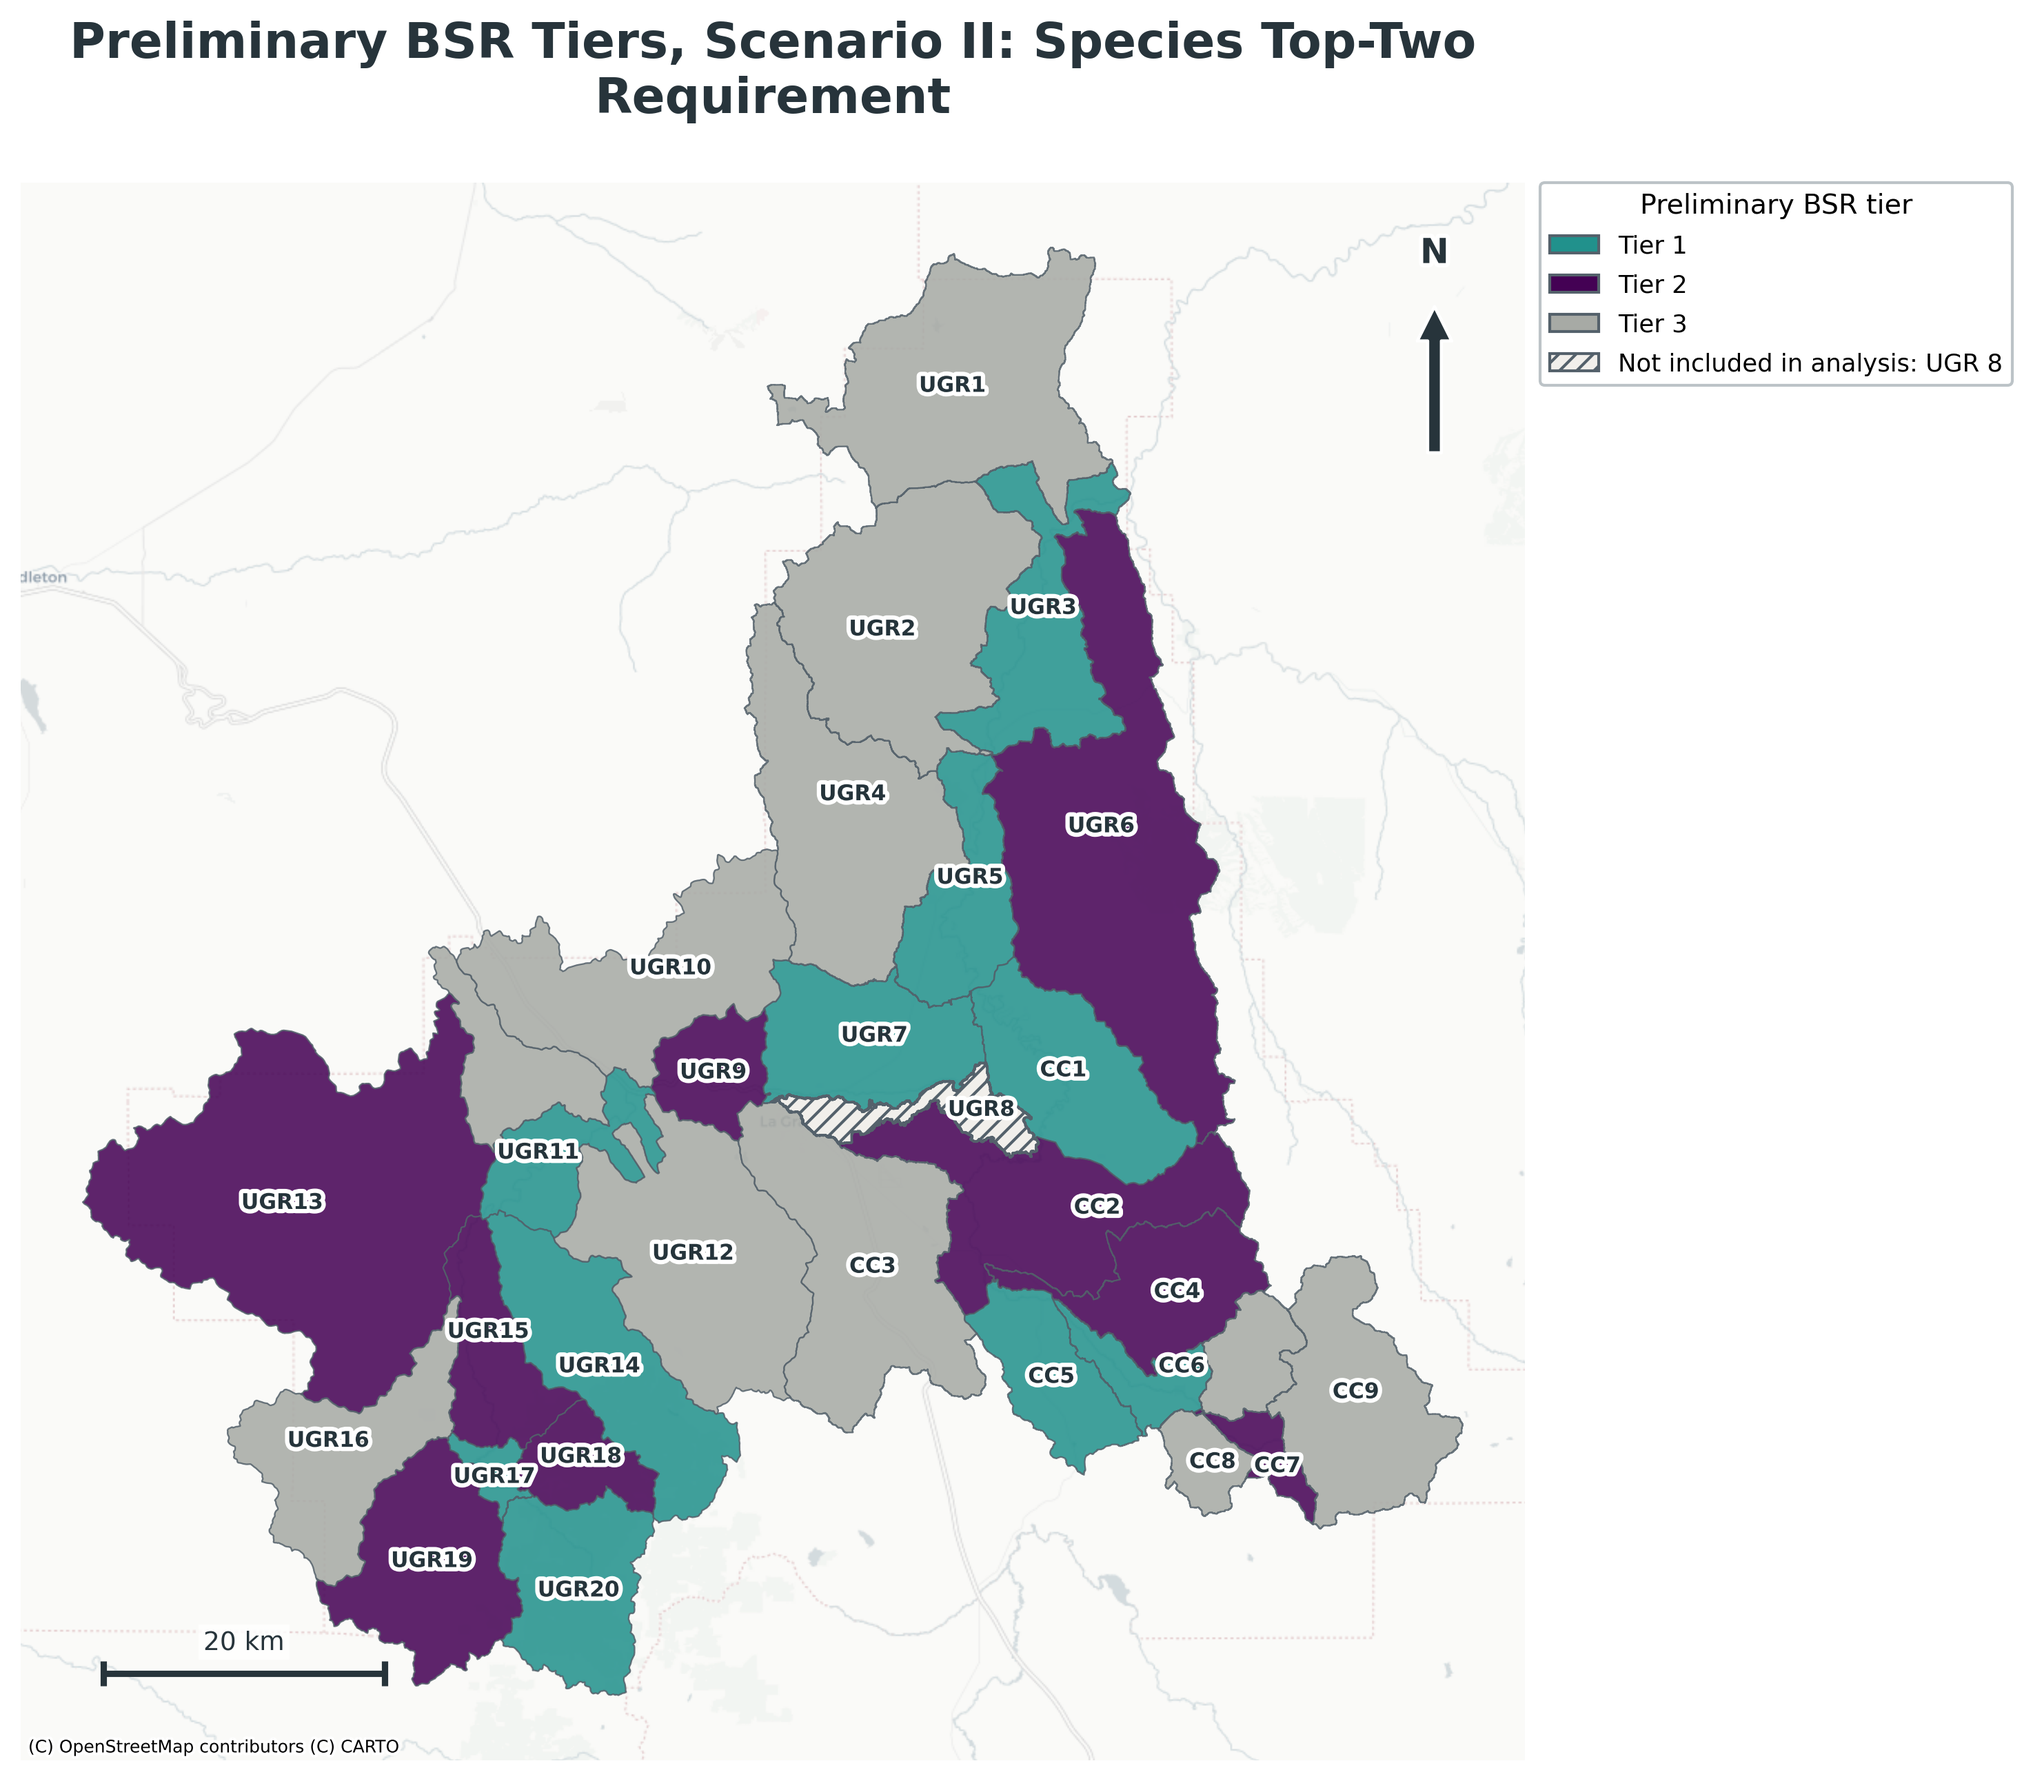
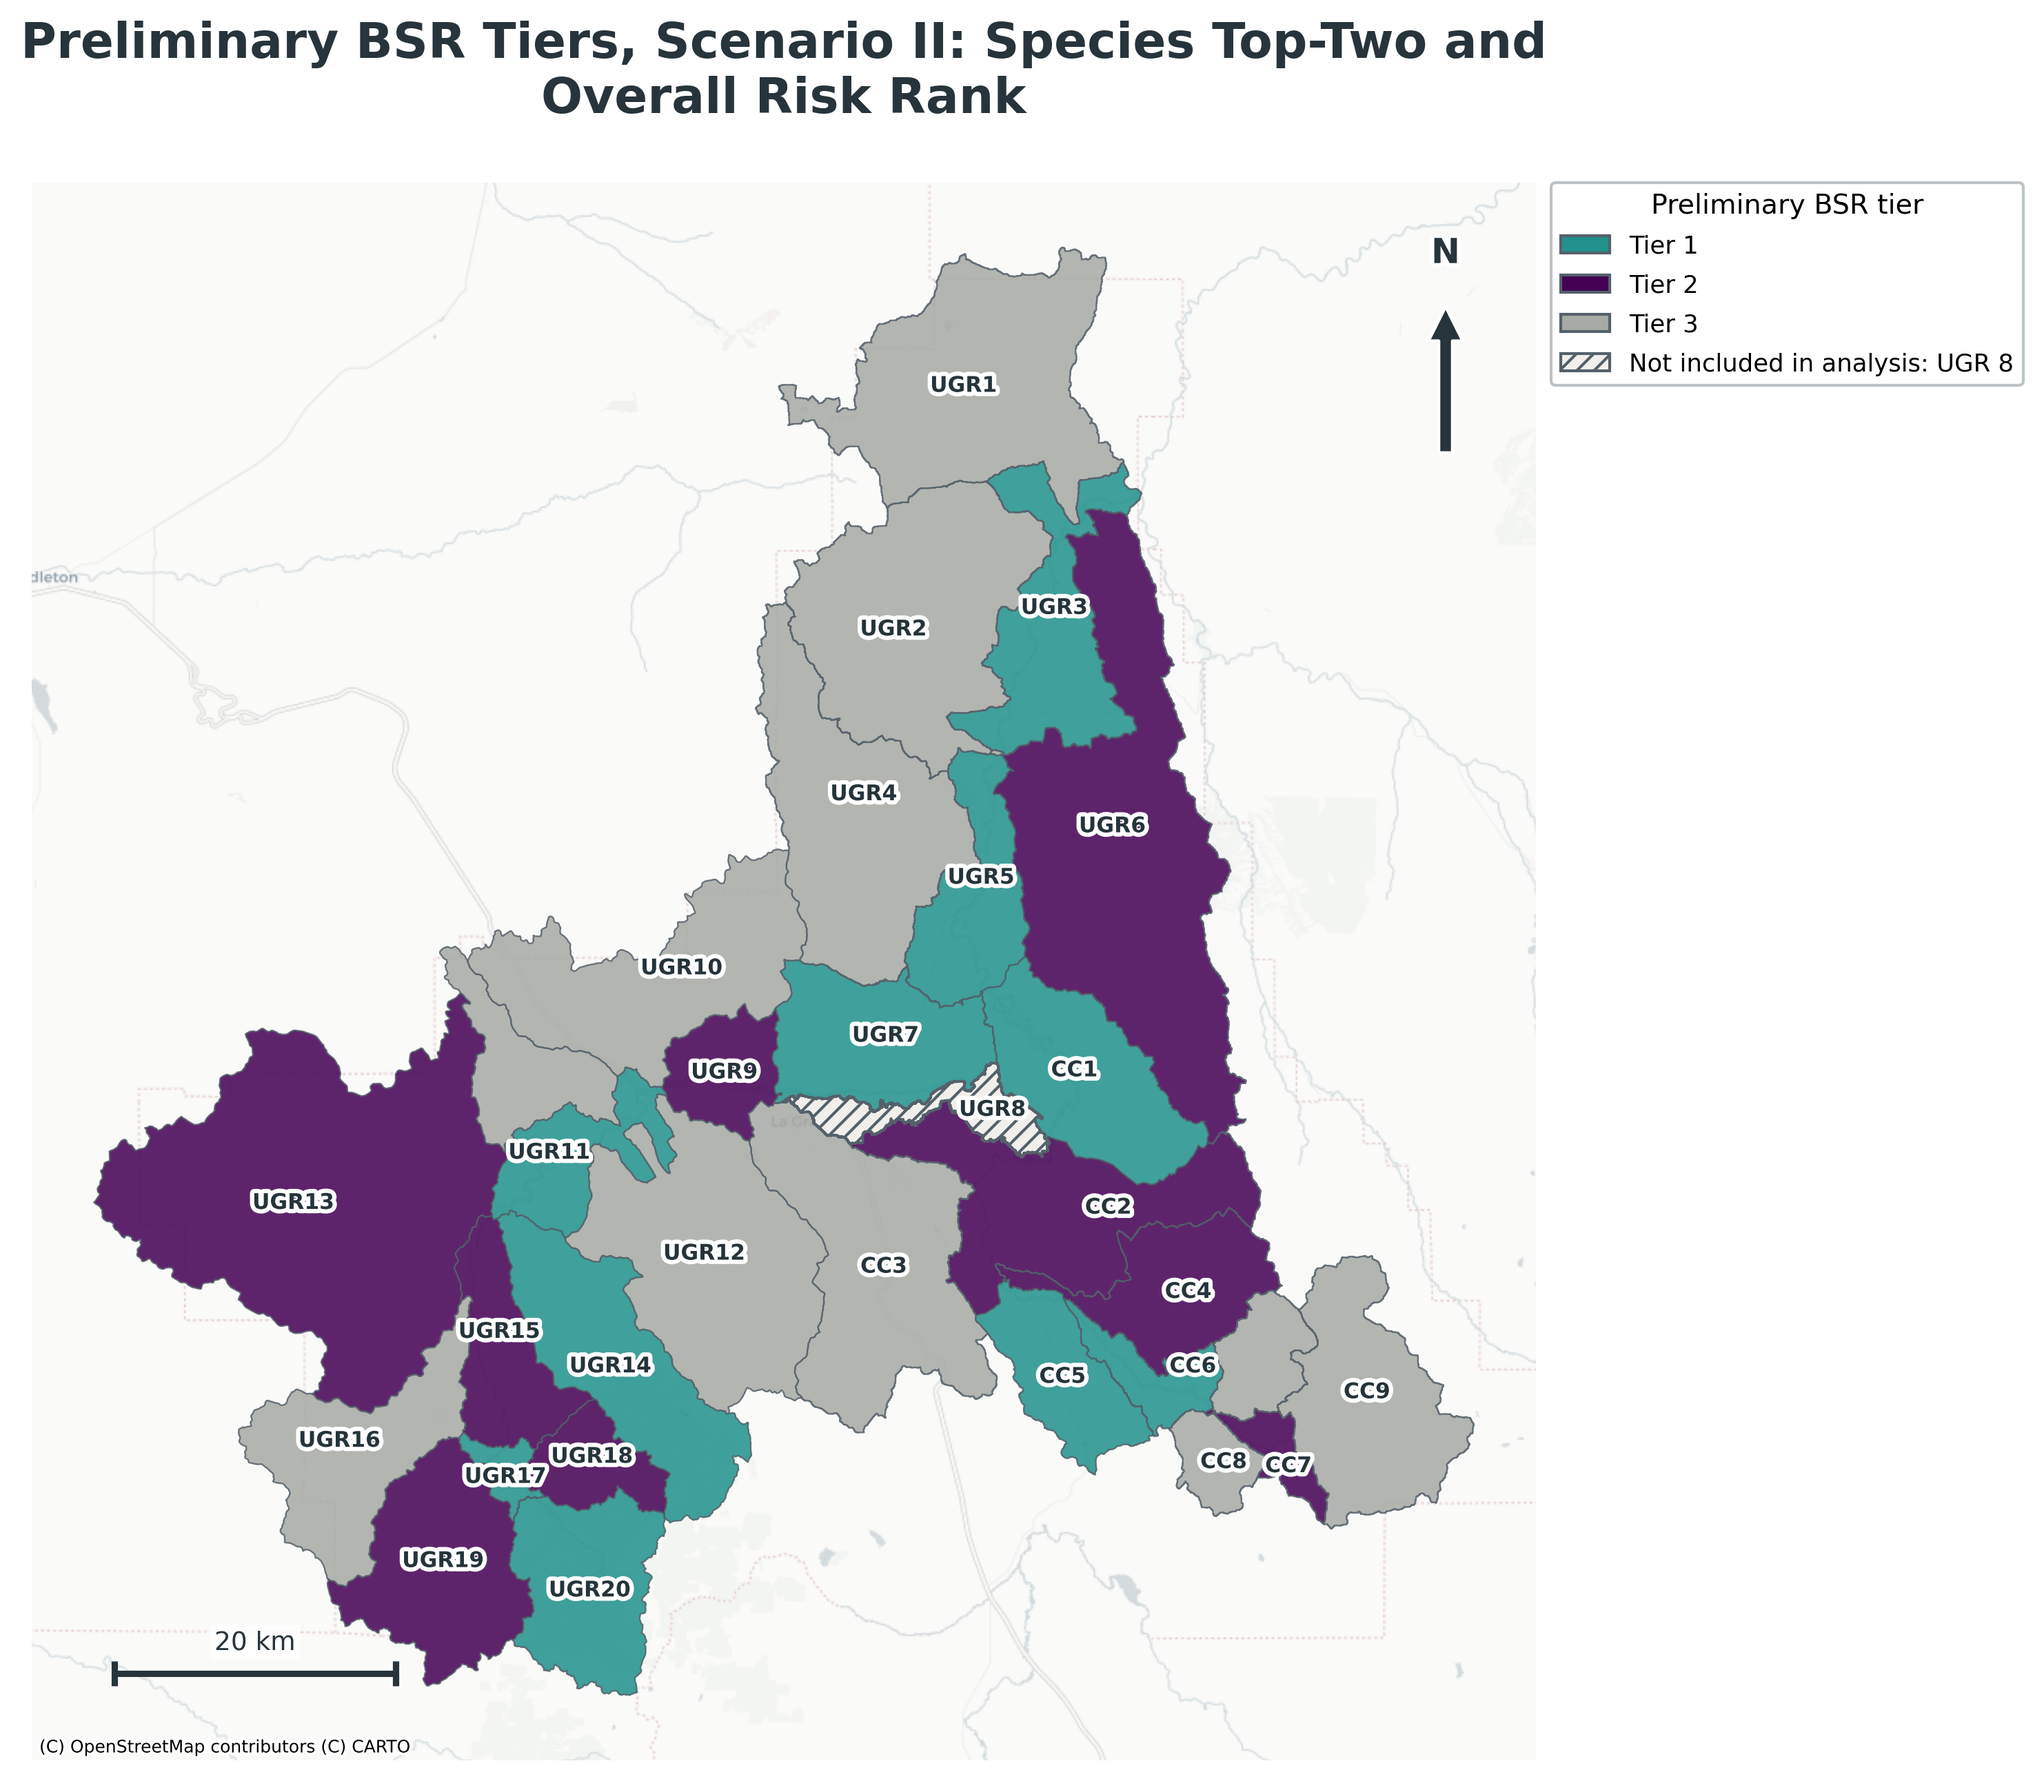
map updates

diff --git a/atlas_score_maps.py b/atlas_score_maps.py
@@ -1134,7 +1134,13 @@ def scenario_ii_tiers(
     bsr: gpd.GeoDataFrame,
     species_scores: pd.DataFrame,
 ) -> tuple[pd.DataFrame, pd.DataFrame]:
-    """Assign thirds while requiring each species' top two BSRs in Tier 1."""
+    """Assign Scenario II tiers using species risk, then overall risk.
+
+    Exactly two BSRs are selected independently for each species and forced
+    into Tier 1. The remaining Tier 1 capacity is filled in descending overall
+    risk order. All remaining BSRs are assigned to Tiers 2 and 3 in the same
+    descending overall-risk order.
+    """
     ordered = ordered_overall_risk(bsr)
     sizes = tier_sizes(len(ordered))
     included_keys = set(ordered["_bsr_key"])
@@ -1195,16 +1201,22 @@ def scenario_ii_tiers(
 
     overall_order = ordered["_bsr_key"].tolist()
     tier_one_keys = set(required_tier_one_keys)
+    tier_one_fill_keys: list[str] = []
     for bsr_key in overall_order:
         if len(tier_one_keys) >= tier_one_target:
             break
+        if bsr_key in tier_one_keys:
+            continue
         tier_one_keys.add(bsr_key)
+        tier_one_fill_keys.append(bsr_key)
 
     remaining = [
         bsr_key for bsr_key in overall_order if bsr_key not in tier_one_keys
     ]
-    tier_two_keys = set(remaining[: sizes[1]])
-    tier_three_keys = set(remaining[sizes[1] :])
+    tier_two_order = remaining[: sizes[1]]
+    tier_three_order = remaining[sizes[1] :]
+    tier_two_keys = set(tier_two_order)
+    tier_three_keys = set(tier_three_order)
 
     tier_lookup = {
         **{key: "Tier 1" for key in tier_one_keys},
@@ -1230,16 +1242,40 @@ def scenario_ii_tiers(
     assignment["tier1_species_top_two_for"] = assignment["_bsr_key"].map(
         required_species
     )
-    assignment["tier_assignment_basis"] = "Overall risk score"
+    assignment["species_top_two_required"] = assignment["_bsr_key"].isin(
+        required_tier_one_keys
+    )
+    assignment["tier_assignment_basis"] = "Overall risk rank"
+    tier_one_fill = assignment["_bsr_key"].isin(tier_one_fill_keys)
+    assignment.loc[
+        tier_one_fill, "tier_assignment_basis"
+    ] = "Overall risk rank (Tier 1 fill)"
     required = assignment["_bsr_key"].isin(required_tier_one_keys)
     assignment.loc[
         required, "tier_assignment_basis"
-    ] = "Top-two species risk requirement"
+    ] = "Top-two risk score for at least one species"
     excluded = assignment["_bsr_key"].isin(
         set(bsr.loc[exclusion_mask(bsr), "_bsr_key"])
     )
     assignment.loc[excluded, "tier"] = "Not included"
+    assignment.loc[excluded, "species_top_two_required"] = False
     assignment.loc[excluded, "tier_assignment_basis"] = "Excluded from analysis"
+
+    included_assignment = assignment.loc[~excluded]
+    actual_sizes = tuple(
+        int(included_assignment["tier"].eq(f"Tier {tier}").sum())
+        for tier in (1, 2, 3)
+    )
+    if actual_sizes != sizes:
+        raise RuntimeError(
+            "Scenario II tier-size validation failed: expected "
+            f"{sizes}, assigned {actual_sizes}."
+        )
+    if not assignment.loc[required, "tier"].eq("Tier 1").all():
+        raise RuntimeError(
+            "Scenario II validation failed: a species top-two BSR was not "
+            "assigned to Tier 1."
+        )
     return assignment, species_top_two
 
 
@@ -1477,7 +1513,7 @@ def create_all_maps(
         ),
         (
             "_scenario_ii_tier",
-            "Preliminary BSR Tiers, Scenario II: Species Top-Two Requirement",
+            "Preliminary BSR Tiers, Scenario II: Species Top-Two and Overall Risk Rank",
             output_dir / "preliminary_bsr_tiers_scenario_ii.png",
         ),
     ]

diff --git a/archive/atlas_score_maps.py b/archive/atlas_score_maps.py
@@ -5,6 +5,7 @@ The scoring notebook writes a scored BSR feature layer plus the
 ``data/outputs/bsr_scores.gpkg``. This script reads those outputs and creates:
 
 * overall risk;
+* overall benefit;
 * one risk map per species;
 * highest risk-aligned species/life stage;
 * highest risk-aligned limiting factor;
@@ -211,6 +212,7 @@ def read_scoring_outputs(
         bsr,
         [
             "overall_risk_score",
+            "overall_benefit_score",
             "highest_risk_species_life_stage",
             "highest_risk_limiting_factor",
             "highest_risk_aligned_action_type",
@@ -1324,6 +1326,34 @@ def create_all_maps(
             "scale_min": 0.0,
             "scale_max": overall_max,
             "output_file": str(overall_path),
+        }
+    )
+
+    overall_benefit_max = nonzero_max(
+        bsr.loc[~exclusion_mask(bsr), "overall_benefit_score"]
+    )
+    overall_benefit_path = output_dir / "overall_benefit_score.png"
+    plot_numeric_map(
+        bsr,
+        value_field="overall_benefit_score",
+        title="Overall Benefit Score",
+        legend_title="Overall benefit score (sum across action types)",
+        output_path=overall_benefit_path,
+        cmap=BENEFIT_CMAP,
+        scale_min=0.0,
+        scale_max=overall_benefit_max,
+        dpi=dpi,
+        use_basemap=use_basemap,
+        basemap_zoom=basemap_zoom,
+    )
+    manifest.append(
+        {
+            "map_group": "Overall benefit",
+            "category": pd.NA,
+            "score_field": "overall_benefit_score",
+            "scale_min": 0.0,
+            "scale_max": overall_benefit_max,
+            "output_file": str(overall_benefit_path),
         }
     )
 
